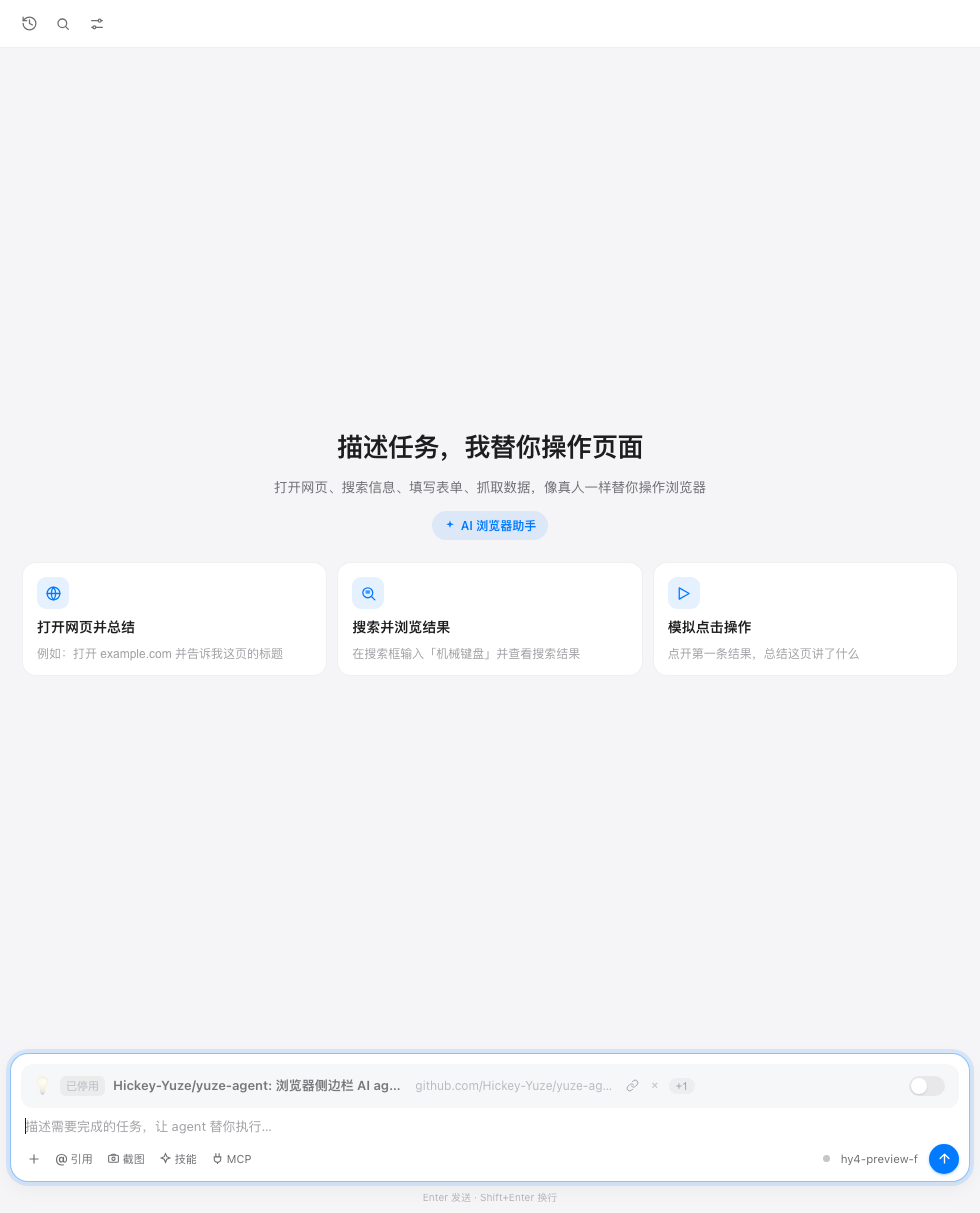
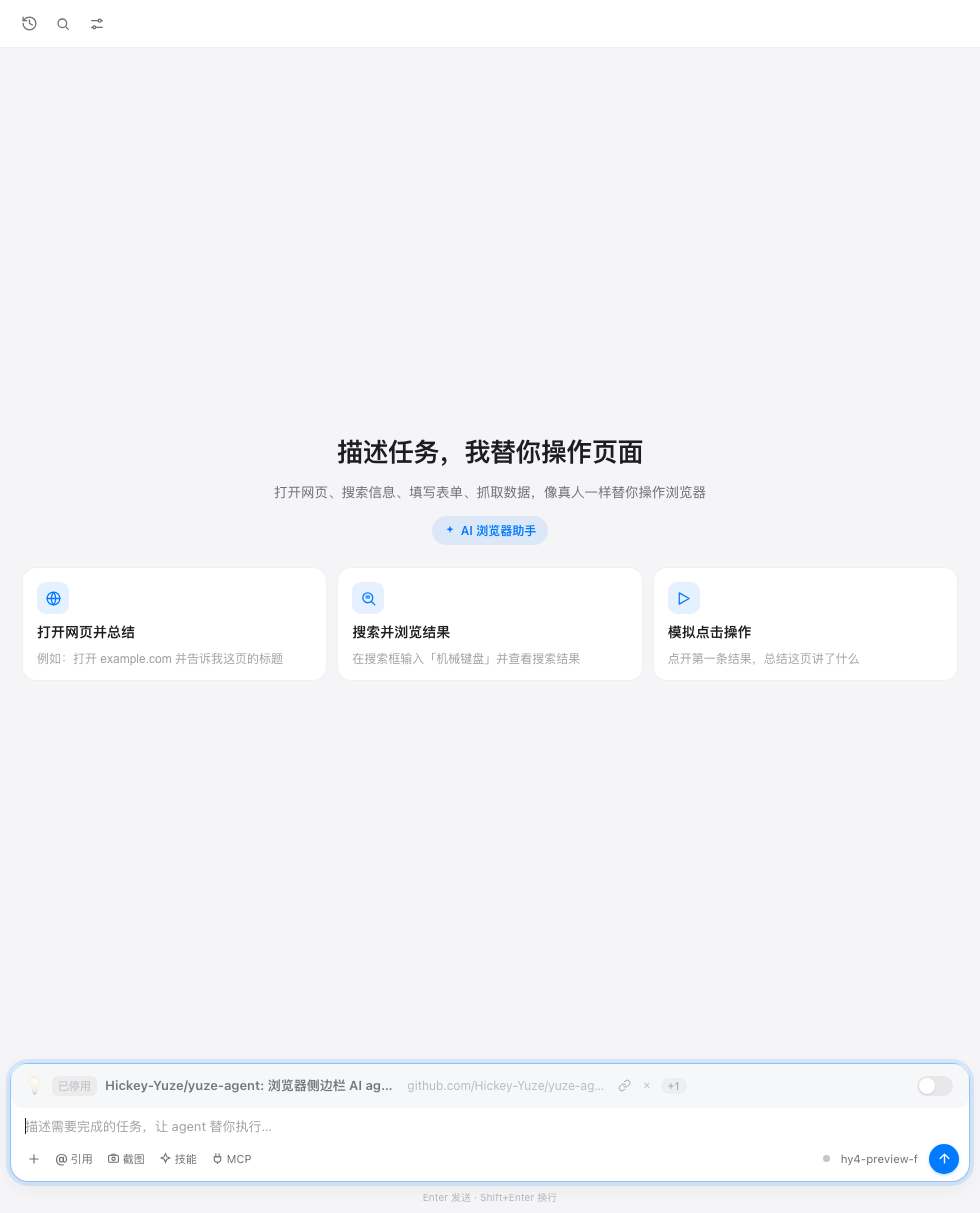
ui: 引用条改通宽贴边（与输入框容器对齐）

diff --git a/extension/sidepanel.css b/extension/sidepanel.css
@@ -1612,7 +1612,7 @@ body {
 
 /* 引用条（规格版：吸附输入框顶部，共用圆角容器，浅灰 #F1F2F4） */
 .quote-top { display: contents; }
-.quote-wrap { display: flex; align-items: center; gap: 10px; margin: 0 0 6px; padding: 0 12px; min-height: 44px; background: #F1F2F4; border-radius: 12px; flex: none; }
+.quote-wrap { display: flex; align-items: center; gap: 10px; margin: -10px -10px 6px; padding: 0 14px; min-height: 44px; background: #F1F2F4; border-radius: 12px; flex: none; }
 .quote-wrap.hidden { display: none; }
 .quote-wrap.q-disabled { opacity: .6; }
 .quote-wrap .quote-bar { flex: 1; min-width: 0; display: flex; align-items: center; gap: 8px; padding: 8px 0; overflow-x: auto; scrollbar-width: none; }
